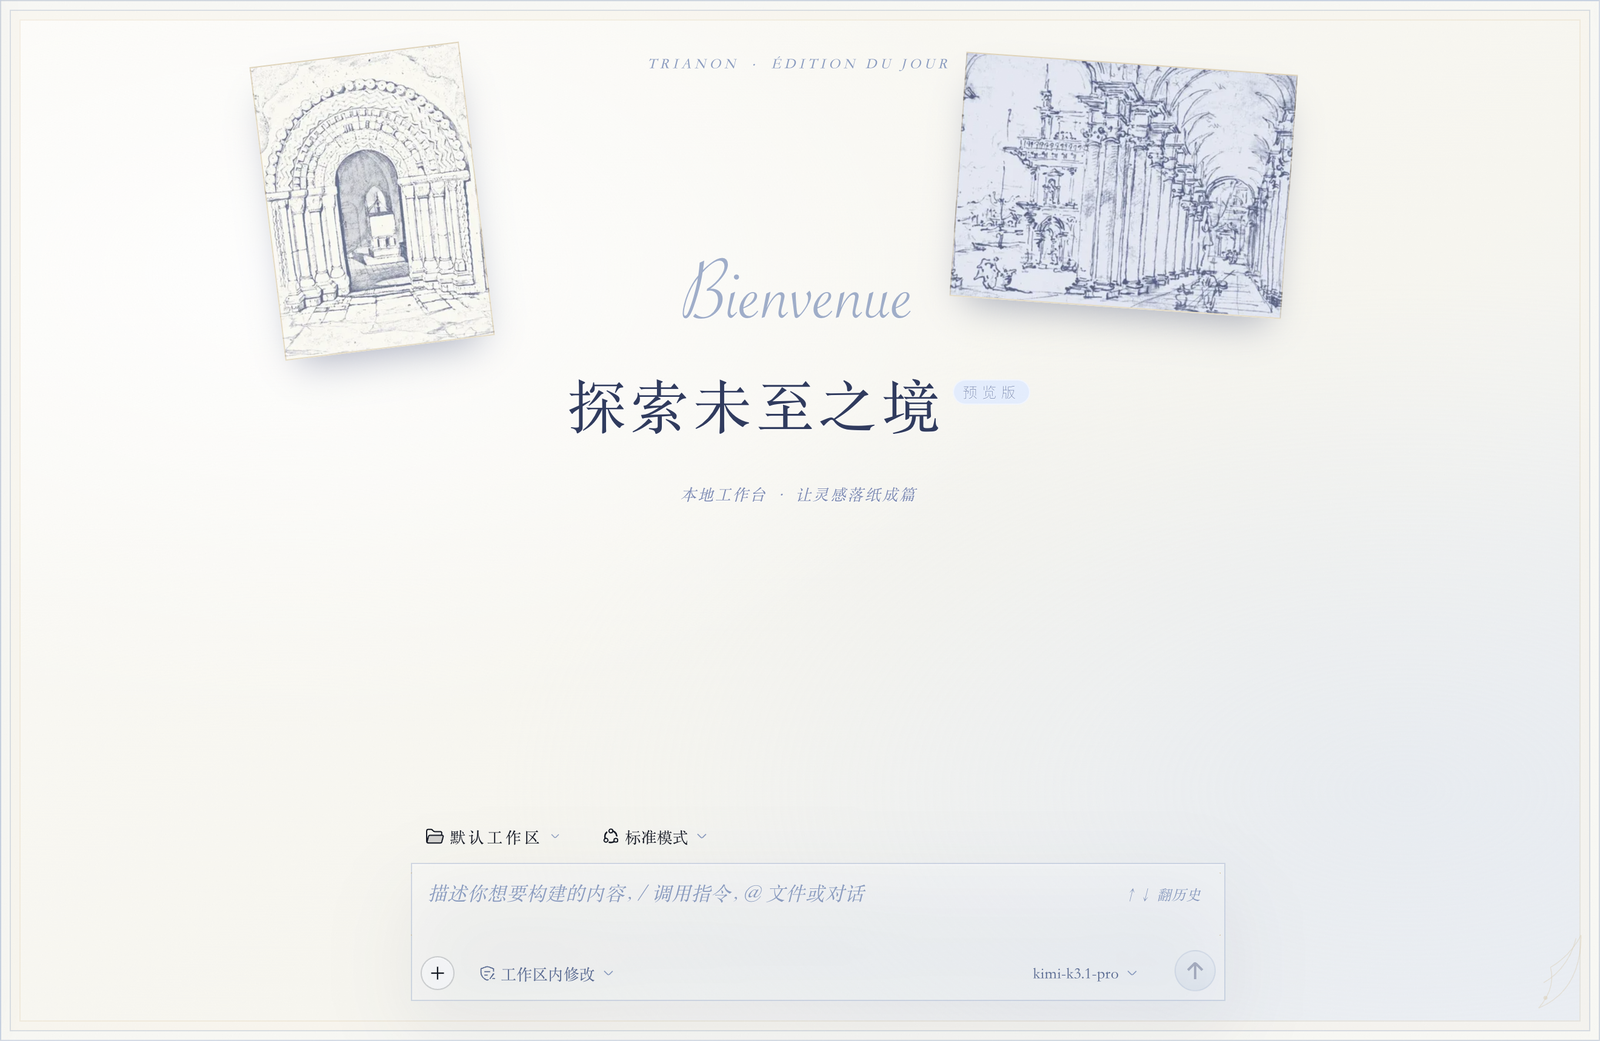
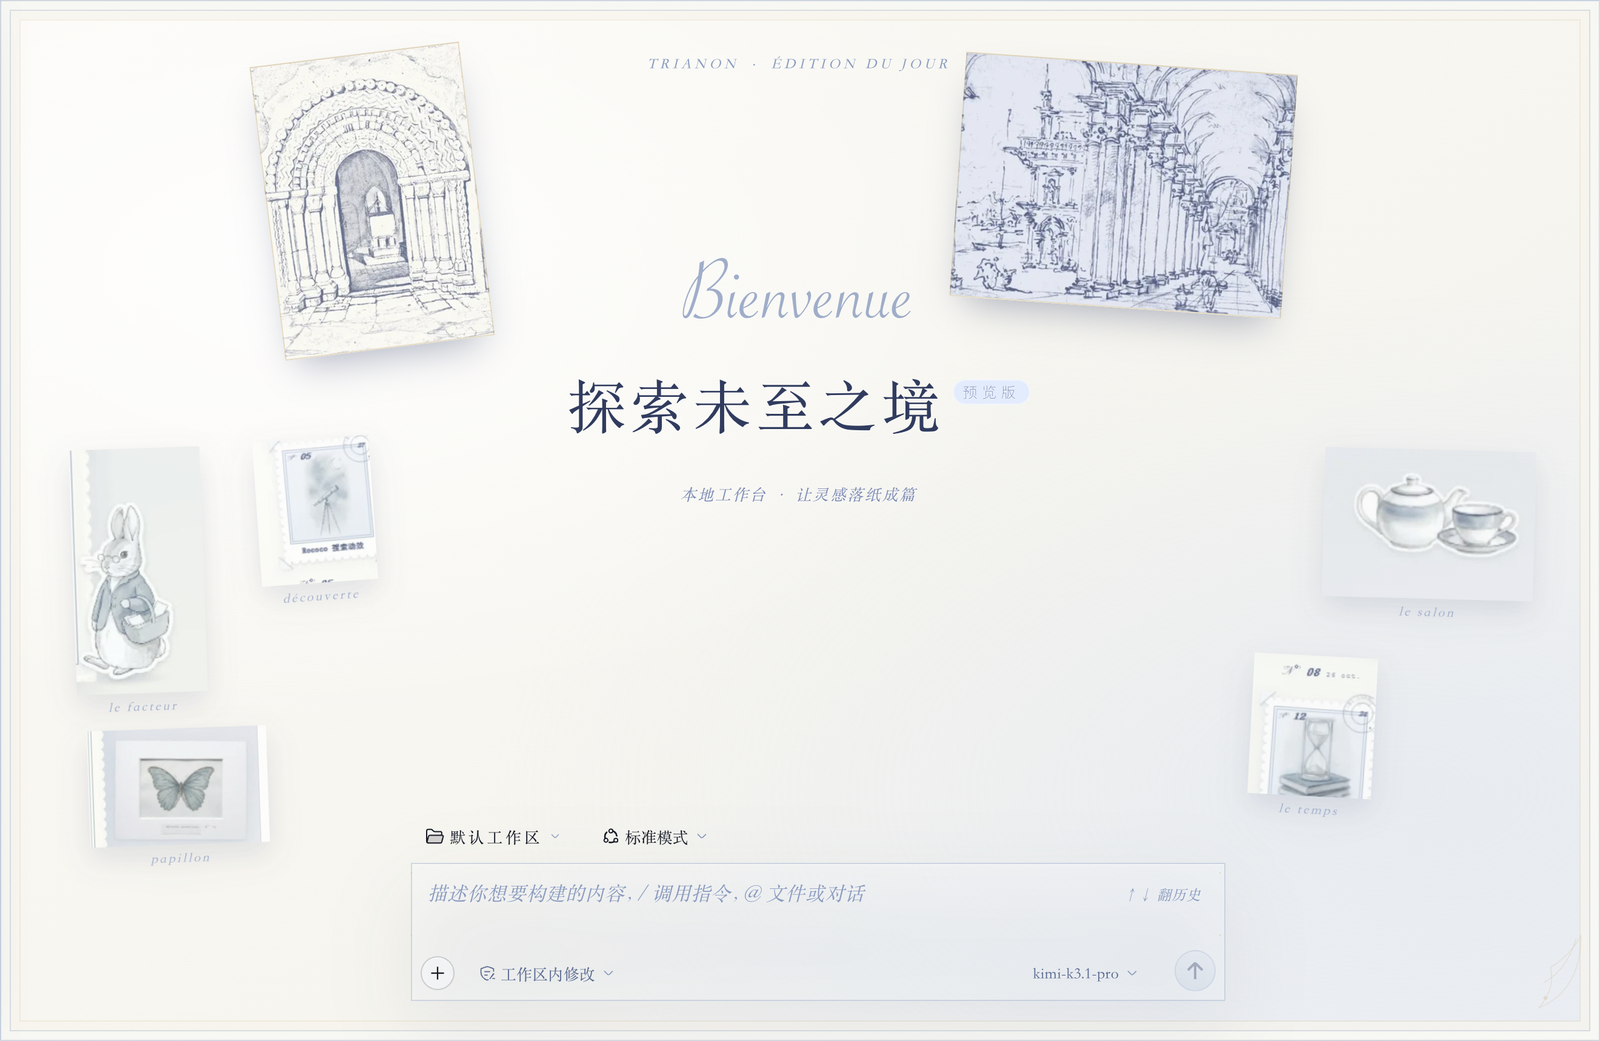
feat: add watercolor cabinet curiosities to the homepage

diff --git a/lib/client.js b/lib/client.js
@@ -1585,6 +1585,50 @@ body[data-ds-dark-theme] [class*="sidebarCol"] {
   background: linear-gradient(165deg,#354267,#20294D 65%,#161D36) !important;
   border-color: rgba(217,190,140,.2) !important;
 }
+
+/* ==========================================================================
+   ⑮ 主页水彩陈列 · 兔子信使、茶具、蝴蝶与邮票
+   装饰层由 installHomeDecor 仅在新会话主页挂载，绝不遮挡输入控件。
+   ========================================================================== */
+.tri-home-decor { position: absolute !important; inset: 0; height: 100%; z-index: 1; pointer-events: none; }
+.tri-art {
+  position: absolute; pointer-events: none; opacity: .8;
+  background-position: center; background-repeat: no-repeat; background-size: contain;
+  filter: drop-shadow(0 10px 12px rgba(40,52,95,.14));
+}
+.tri-art::after {
+  content: attr(data-caption); position: absolute; left: 50%; bottom: -19px;
+  transform: translateX(-50%); white-space: nowrap;
+  color: #8C9DC0; font-family: var(--tri-corm); font-size: 11px; font-style: italic;
+  letter-spacing: .14em;
+}
+.tri-art-rabbit {
+  left: 4.5%; top: 43%; width: 108px; height: 202px;
[1 lines of base64/hex data omitted]
+}
+.tri-art-telescope {
+  left: 16%; top: 42%; width: 96px; height: 120px;
[1 lines of base64/hex data omitted]
+}
+.tri-art-tea {
+  right: 4%; top: 43%; width: 174px; height: 124px;
[1 lines of base64/hex data omitted]
+}
+.tri-art-hourglass {
+  right: 14%; top: 63%; width: 102px; height: 116px;
[1 lines of base64/hex data omitted]
+}
+.tri-art-butterfly {
+  left: 5.5%; top: 70%; width: 148px; height: 96px;
[1 lines of base64/hex data omitted]
+}
+body[data-ds-dark-theme] .tri-art { opacity: .55; filter: drop-shadow(0 10px 12px rgba(0,0,0,.3)); }
+@media (max-width: 1200px) {
+  .tri-art-telescope, .tri-art-hourglass { display: none; }
+  .tri-art-rabbit { left: 3%; width: 88px; }
+  .tri-art-tea { right: 3%; width: 140px; }
+}
+@media (max-width: 1000px) { .tri-home-decor { display: none; } }
 `
 
       function installCss() {
@@ -1611,7 +1655,7 @@ body[data-ds-dark-theme] [class*="sidebarCol"] {
       // 这里补一条 sidebar.panellist 行 + 一个 main 面板页，让主题有落脚点。
       const React = require('react')
       const PANEL_ID = 'rococo-panel'
-      const THEME_VERSION = 'v0.8.7'
+      const THEME_VERSION = 'v0.8.8'
 
       function RococoIcon(props) {
         const size = (props && Number(props.size)) || 16
@@ -1641,6 +1685,7 @@ body[data-ds-dark-theme] [class*="sidebarCol"] {
         '花体字点缀：Pinyon / Cormorant 斜体标签',
         '账簿细线对话流：扇贝蕾丝代码块、蝴蝶结输入卡',
         'Dossiers 卷宗侧栏：蕾丝边、票签会话与账号铭牌',
+        '水彩陈列：兔子信使、茶具、蝴蝶与邮票',
       ]
 
       const AVATARS = [
@@ -1722,20 +1767,67 @@ body[data-ds-dark-theme] [class*="sidebarCol"] {
         }
       }
 
+      /** 只在新会话主页挂载水彩陈列层；离开主页即移除，不占用消息流 DOM。 */
+      function installHomeDecor() {
+        try {
+          if (typeof document === 'undefined') return
+          const root = document.documentElement
+          if (root.dataset.triHomeDecor === 'on') return
+          root.dataset.triHomeDecor = 'on'
+
+          const sync = () => {
+            document.querySelectorAll('[data-conversation-region="chat"]').forEach((region) => {
+              const isHome = Boolean(region.querySelector('[class*="composerHero"]'))
+              let layer = region.querySelector(':scope > .tri-home-decor')
+              if (!isHome) {
+                if (layer) layer.remove()
+                return
+              }
+              if (layer) return
+              layer = document.createElement('div')
+              layer.className = 'tri-home-decor'
+              layer.setAttribute('aria-hidden', 'true')
+              layer.innerHTML = [
+                ['rabbit', 'le facteur'],
+                ['telescope', 'découverte'],
+                ['tea', 'le salon'],
+                ['hourglass', 'le temps'],
+                ['butterfly', 'papillon'],
+              ].map(([name, caption]) => `<div class="tri-art tri-art-${name}" data-caption="${caption}"></div>`).join('')
+              region.appendChild(layer)
+            })
+          }
+
+          let queued = false
+          const schedule = () => {
+            if (queued) return
+            queued = true
+            requestAnimationFrame(() => { queued = false; sync() })
+          }
+          sync()
+          const observer = new MutationObserver(schedule)
+          observer.observe(document.body, { childList: true, subtree: true })
+        } catch (error) {
+          console.warn('[dsh-rococo-theme] home decor disabled:', error)
+        }
+      }
+
       /** 需要的客户端服务：slots（侧栏/主面板槽位由 shell 声明后回调）。 */
       exports.inject = ['slots']
 
       /** 插件入口：注入主题样式 + 注册侧栏面板。 */
       exports.apply = (ctx) => {
         installCss()
+        installHomeDecor()
         try { registerPanel(ctx) } catch (error) {
           console.warn('[dsh-rococo-theme] apply panel failed:', error)
         }
       }
 
       // 样式在 factory 阶段就先注入一次：即使宿主没提供 slots、apply 没被调用，
-      // 主题也不会因此失效（installCss 幂等）。
+      // 主题也不会因此失效（installCss / installHomeDecor 均幂等）。
       installCss()
+      installHomeDecor()
 
       return module.exports
     } catch (error) {

diff --git a/README.md b/README.md
@@ -48,8 +48,9 @@ dsh plugin --profile desktop add link:/absolute/path/to/dsh-rococo-theme
 - **Bienvenue 纸面**：主页采用双线纸框、中央 Bienvenue 标题与两张神庙版画，工作区和输入框在下方居中；个人设置页和「洛可可」面板共用这套纸面语言。
 - **Permission 许可信笺**：所有授权请求统一为双线纸框、花体眉题、雾蓝详情区与火漆玫瑰；允许／始终允许／拒绝按钮及 Enter、Esc 快捷键保持原逻辑。
 - **Dossiers 卷宗侧栏**：雾蓝卷宗夹、文件与花体眉题、扇贝蕾丝边、文件夹票签会话行，以及 le coffret 账号铭牌；搜索、导航、会话切换与账号菜单保持原功能。
+- **主页水彩陈列**：两张神庙版画的周围加入兔子信使、茶具、蝴蝶标本框、沙漏与望远镜邮票；装饰仅在新会话主页挂载，窄屏自动隐藏。
 
-## 组件清单 / Components（v0.8.7）
+## 组件清单 / Components（v0.8.8）
 
 | 组件 | 位置 | 效果 |
 |---|---|---|
